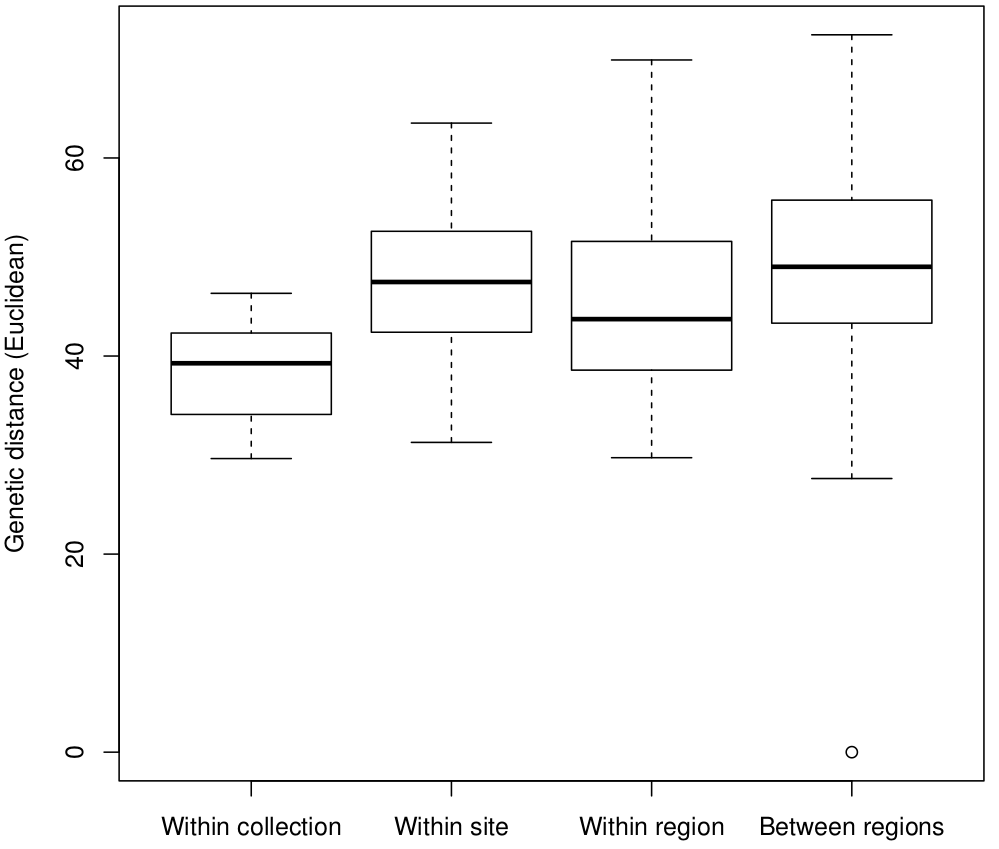
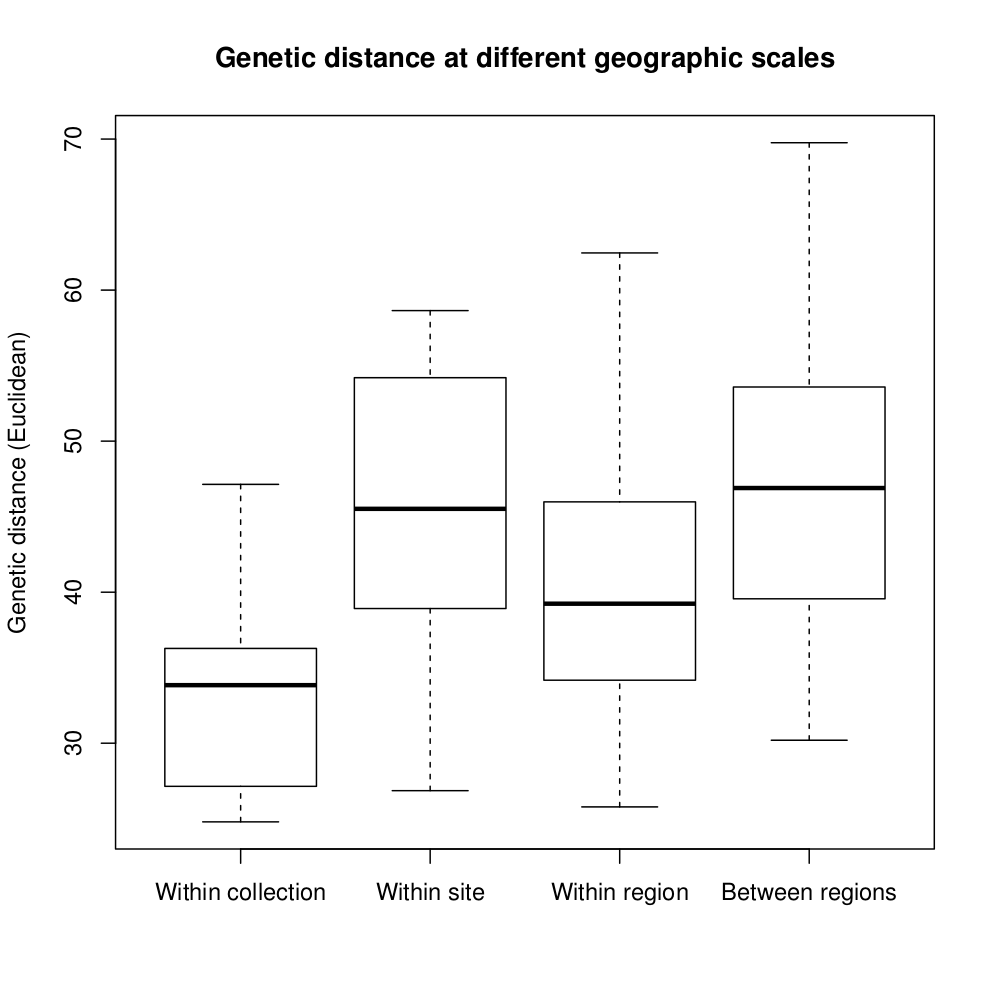
Update IBD results and figures based on latest analyses

diff --git a/Crepidomanes_GBS_manuscript.md b/Crepidomanes_GBS_manuscript.md
@@ -89,17 +89,15 @@ HERE OR DISCUSSION? Seven samples were apparently a different species than what 
 
 Removing the non-_Crepidomanes_ loci did not have a large effect on the total number of loci in the Unknown-filtered dataset relative to the Unknown-unfiltered dataset (5% of total loci filtered; Table 3), likely because even a non-_Crepidomanes_ locus present in all of the Unknown samples would not meet the 50% minimum sample coverage cutoff. Individual samples differed in the proportion of loci with signal (not missing data) that were lost (Table 4), but Unknown samples lost an average of 20% of their loci with signal, whereas _C. intricatum_ samples only lost an average of 4%, and this difference is statistically significant (t=3.49, df=6.13, p-value = 0.012). As expected, removing the non-_Crepidomanes_ loci had even less effect on the total number of loci in the _C. intricatum_ filtered dataset relative to the _C. intricatum_ unfiltered dataset, with only 2% of total loci filtered (Table 3; Table 4).
 
-Structure runs using the Unknown-unfiltered subset of the data suggest that most of the Unknown samples cluster separately from the _C. intricatum_ samples (Figure 7a USE K2 FROM EACH). Most of the _C. intricatum_ samples have tye majority of their ancestry assigned to one cluster, whereas five of the seven Unknown samples have the majority of their ancestry assigned to the other cluster.  After filtering non-_Crepidomanes_ loci (Figure 7b) this apparent difference between _C. intricatum_ and Unknown samples remains.
+Analysis of K-means and Evanno's delta-K for the _C. intricatum_ + Unknown data subsets suggest that the samples cluster optimally into 2 groups (Figure 9; Figure 11). Structure runs using the Unknown-unfiltered subset at K=2 suggest that most of the Unknown samples cluster separately from the _C. intricatum_ samples (Figure 7a). Most of the _C. intricatum_ samples have the majority of their ancestry assigned to one cluster, whereas five of the seven Unknown samples have the majority of their ancestry assigned to the other cluster.  After filtering non-_Crepidomanes_ loci (Figure 7b) this apparent difference between _C. intricatum_ and Unknown samples remains. Only one of the suspected mixed samples (S07) noticably changes ancestry assignments in a way consistent with a mixed sample having the non-Crepidomanes signal removed. The other three suspected mixed samples (S13, S20, and S21) have over 99% of their ancestry assigned to the second cluster even after non-Crepidomanes signal is removed. It is possible that S07 is actually a mixed sample and the others are not, but it is also possible that the attempt to bioinformatically remove non-_Crepidomanes_ genetic signal was not successful and that removing the loci present in the _V. boschiana_ and _D. petersii_ samples did not remove a large enough proportion of the non-_Crepidomanes_ loci. In either case, because we could not determine whether the Unknown samples cluster separately because of variation in _C. intricatum_ genetic signal or because of genetic signal from other species, the remaining analyses focused only on the 25 _C. intricatum_ samples. The results for unfiltered and filtered _C. intricatum_ datasets were similar to each other and yield identical inferences, so only results for the _C. intricatum_-unfiltered dataset are presented.
+
+For the _C. intricatum_ samples the optimal number of clusters appears to be just one (Figure 9; Figure 11). There is no peak in the Evanno delta-K values and the K-means values increase only slightly before dropping at higher values of K. There is no clear geographic pattern to the ancestry assignments at K=2 (Figure 8) or higher values, with the ancestry for each sample divided between two clusters.  
+
+Mantel tests identified evidence of isolation by distance (r~m~=0.271, p=0.02  with 999 permutations). Using Pearson's product-moment correlation, geographic and genetic distance are weakly correlated (r=0.271) and this correlation is significantly different from zero (t=3.986, df=284, p=8.553e-05).  However, the pattern of isolation by distance is not strong (Figure 14) and there is high variation in pairwise genetic distances at all geographic scales (Figure 15).
 
 
 
 
-
-It is possible that these two samples are actually mixed samples and the other 13 just appeared to be mixed due to insufficient genetic signal. However, it is also possible that the attempt to bioinformatically remove non-_Crepidomanes_ genetic signal was not successful and that removing the loci present in the _V. boschiana_ and _D. petersii_ samples did not remove a large enough proportion of the non-_Crepidomanes_ loci. In either case, because we could not determine whether the mixed/unknown samples cluster separately because of variation in _C. intricatum_ genetic signal or because of genetic signal from other species, the remaining analyses focused only on the 26 _C. intricatum_ samples. The results for unfiltered and filtered _C. intricatum_ datasets were similar to each other and yielded identical inferences, so only results for the _C. intricatum_-filtered dataset are presented.
-
-Analysis of K-means and Evanno's delta-K for the C. intricatum + mixed/unknown data subsets suggested that the samples cluster optimally into 2--6 groups (Figure 9; Figure 11), but for the _C. intricatum_ samples the optimal number of clusters appears to be just one (Figure 10; Figure 11). Structure results using K=2 divide the ancestry for every sample between two clusters with no clear geographic pattern (Figure 8).
-
-Mantel tests failed to find evidence of isolation by distance (r~m~=0.129, p=0.099 with 999 permutations). Using Pearson's product-moment correlation, geographic and genetic distance are weakly correlated (r=0.129) and this correlation is statistically significantly different from zero (t = 2.349, df = 323, p=0.01943), but examination of genetic distance at different geographic scales suggests that the correlation is due to lower genetic distances in within-collection comparisons (Figure 14). The distribution of genetic distances is similar for within-site, within-region, and between region comparisons and the correlation between geographic and genetic distance (r=0.081) is not statistically significant when only including comparisons at these scales (t = 1.4177, df = 305, p-value = 0.1573).
 
 The Neighbor-joining Euclidean distance tree (Figure 12) and the Minimum spanning network (Figure 13) support the lack of genetic structure identified by Structure and the apparent lack of isolation by distance. Tip branch lengths are long relative to internal branches and samples from the same site or even the same collection do not consistently form monophyletic groups or distinct clusters.
 

diff --git a/Crepidomanes_GBS_manuscript_figures.md b/Crepidomanes_GBS_manuscript_figures.md
@@ -54,6 +54,10 @@ __Figure 13__ - Minimum spanning network for the dataset including only samples 
 
 ![](Figures/Minimum_spanning_network-Crep_filtered.png)
 
-__Figure 14__ - Genetic distance between _C. intricatum_ samples at different geographic scales.
+__Figure 14__ - Pairwise comparisons of genetic distance vs. geographic distance in _C. intricatum_ samples.
+
+![](Figures/Isolation_by_distance.png)
+
+__Figure 15__ - Genetic distance between _C. intricatum_ samples at different geographic scales.
 
 ![](Figures/Genetic_distance_at_different_scales.png)
